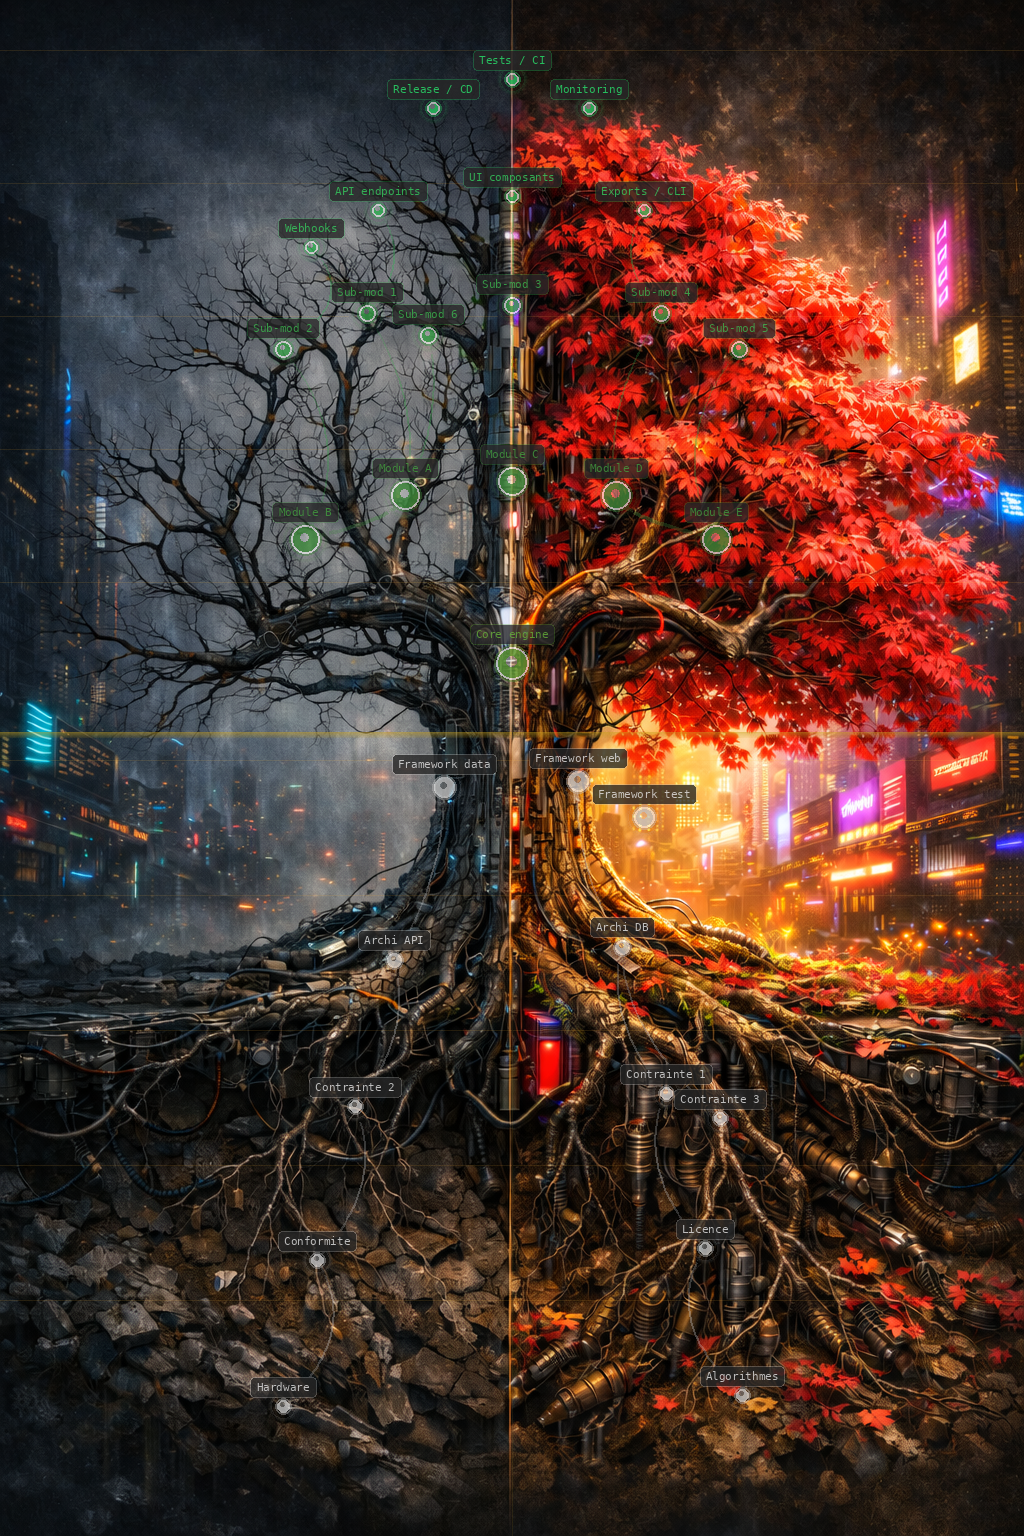
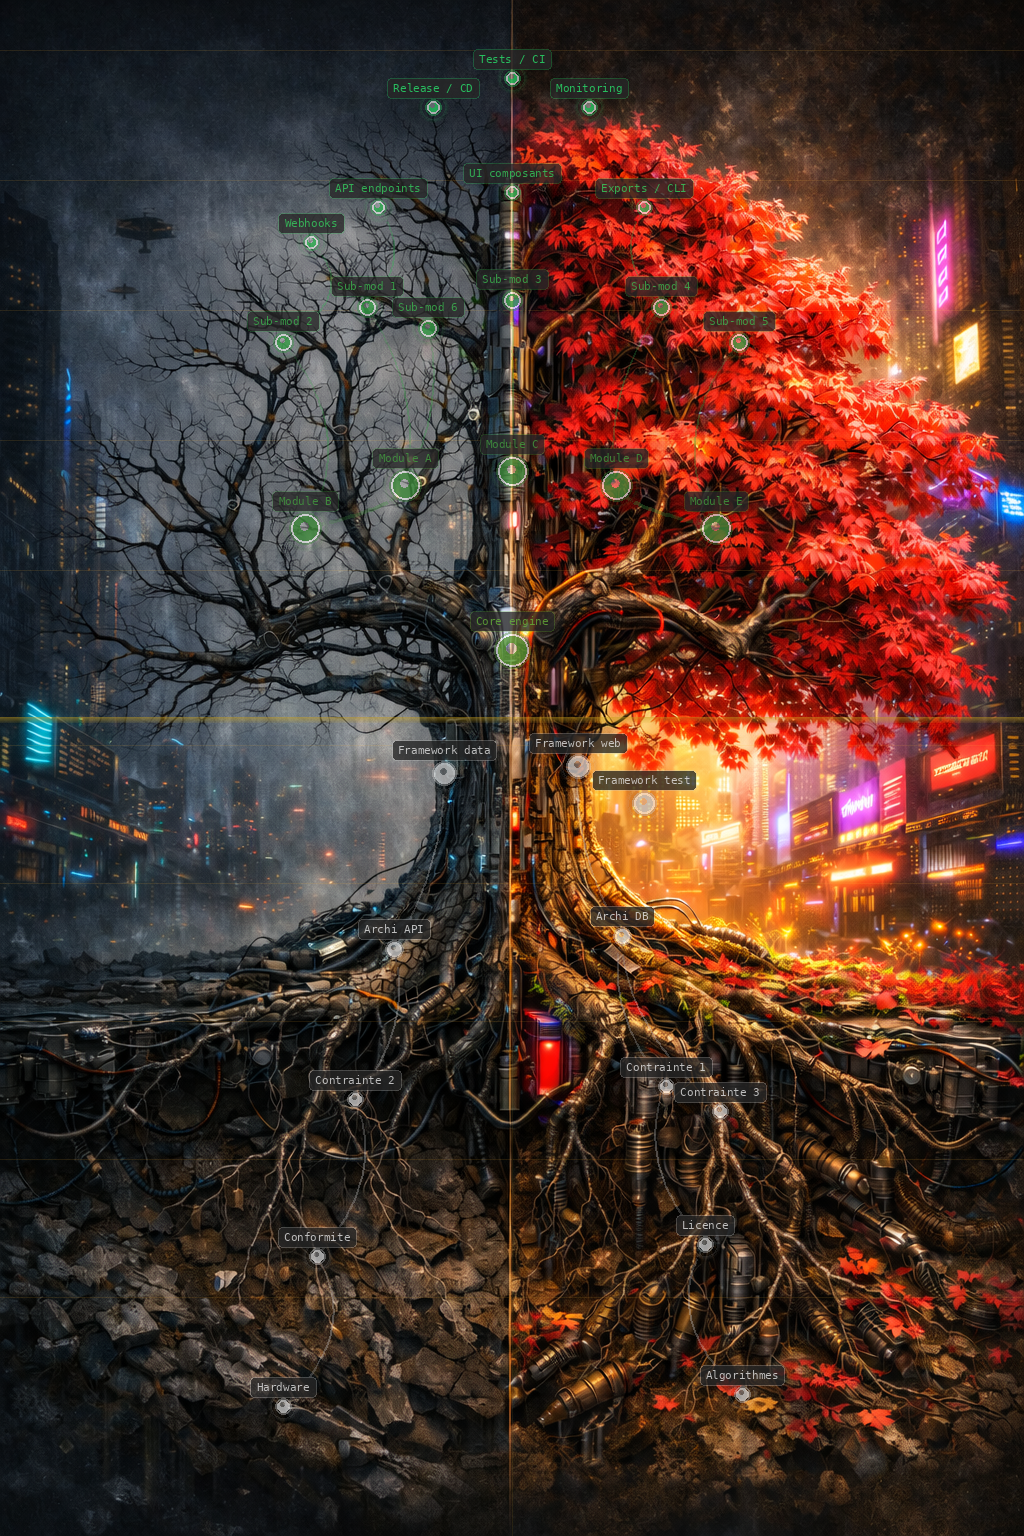
🎯 Recalibrage SOL_Y visuel — lignes test sur chaque image
Calibration par inspection visuelle avec lignes test:
- baobab:   800→860 (herbe côté droit)
- conifere:  850→890 (racines apparentes ~880)
- palmier:   795→885 (coupe terre nette)
- liane:     755→815 (transition terre/ville)
- buisson:   715→730 (ok, +15px)
- feuillu:   735→720 (rocailles côté gauche)

diff --git a/gen_all_skeletons.py b/gen_all_skeletons.py
@@ -24,12 +24,12 @@ SOL_Y = sy(575)  # default, overridden per family below
 # ═══ REAL fam_sol per family (measured from ChatGPT images) ═══
 # Each image has ground at different Y. Calibrated visually.
 FAMILY_SOL_Y = {
-    "conifere": 850,
-    "feuillu":  735,
-    "baobab":   800,
-    "palmier":  795,
-    "buisson":  715,
-    "liane":    755,
+    "conifere": 890,
+    "feuillu":  720,
+    "baobab":   860,
+    "palmier":  885,
+    "buisson":  730,
+    "liane":    815,
 }
 
 # Bandes

diff --git a/render_tree.py b/render_tree.py
@@ -11,12 +11,12 @@ TGT_W, TGT_H = 1024, 1536
 
 # Real ground level per family (measured from ChatGPT images)
 FAMILY_SOL_Y = {
-    "conifere": 850,
-    "feuillu":  735,
-    "baobab":   800,
-    "palmier":  795,
-    "buisson":  715,
-    "liane":    755,
+    "conifere": 890,
+    "feuillu":  720,
+    "baobab":   860,
+    "palmier":  885,
+    "buisson":  730,
+    "liane":    815,
 }
 
 # Positions baobab 1024x1536 — NOW using dynamic remap per family
